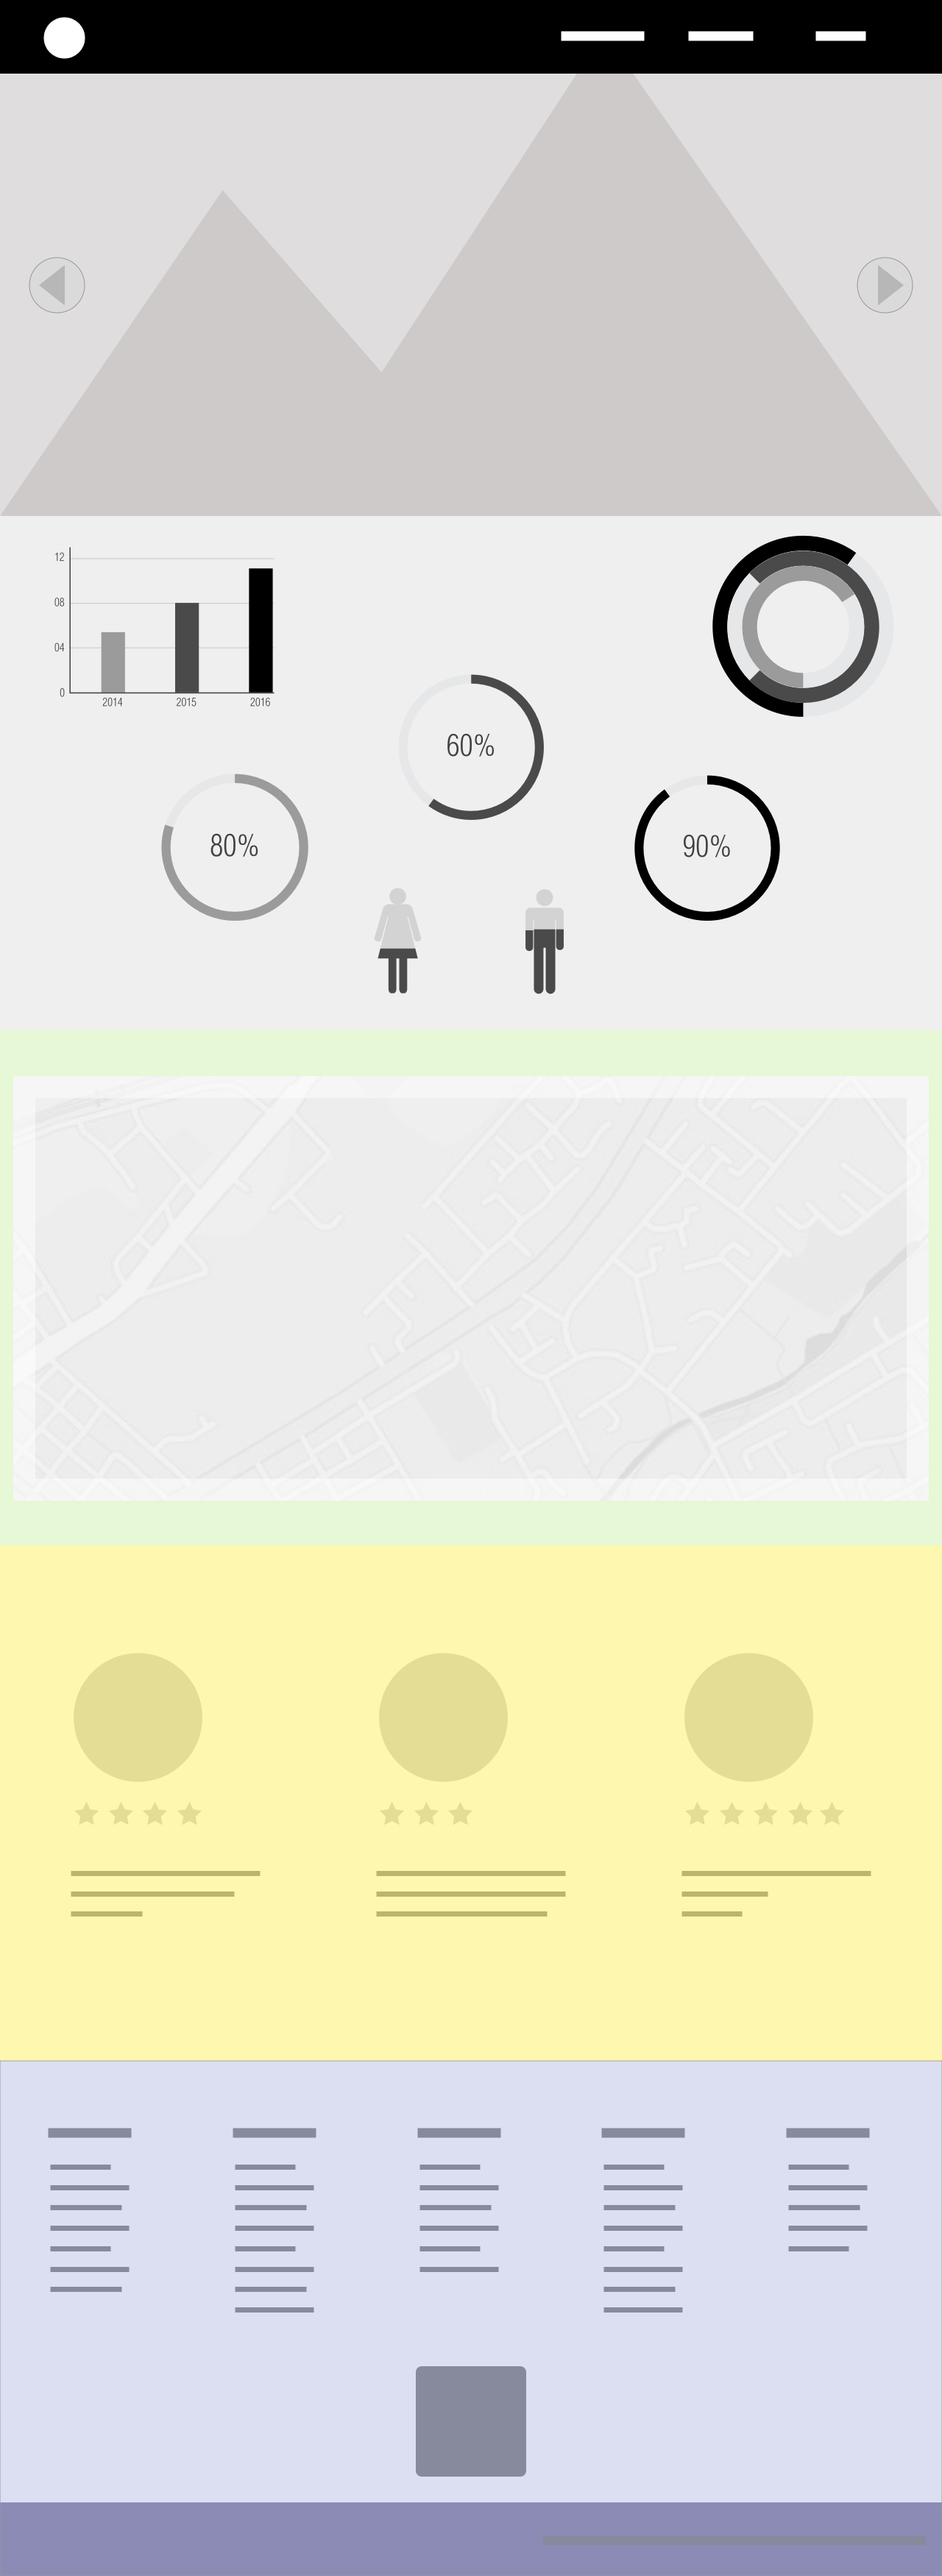
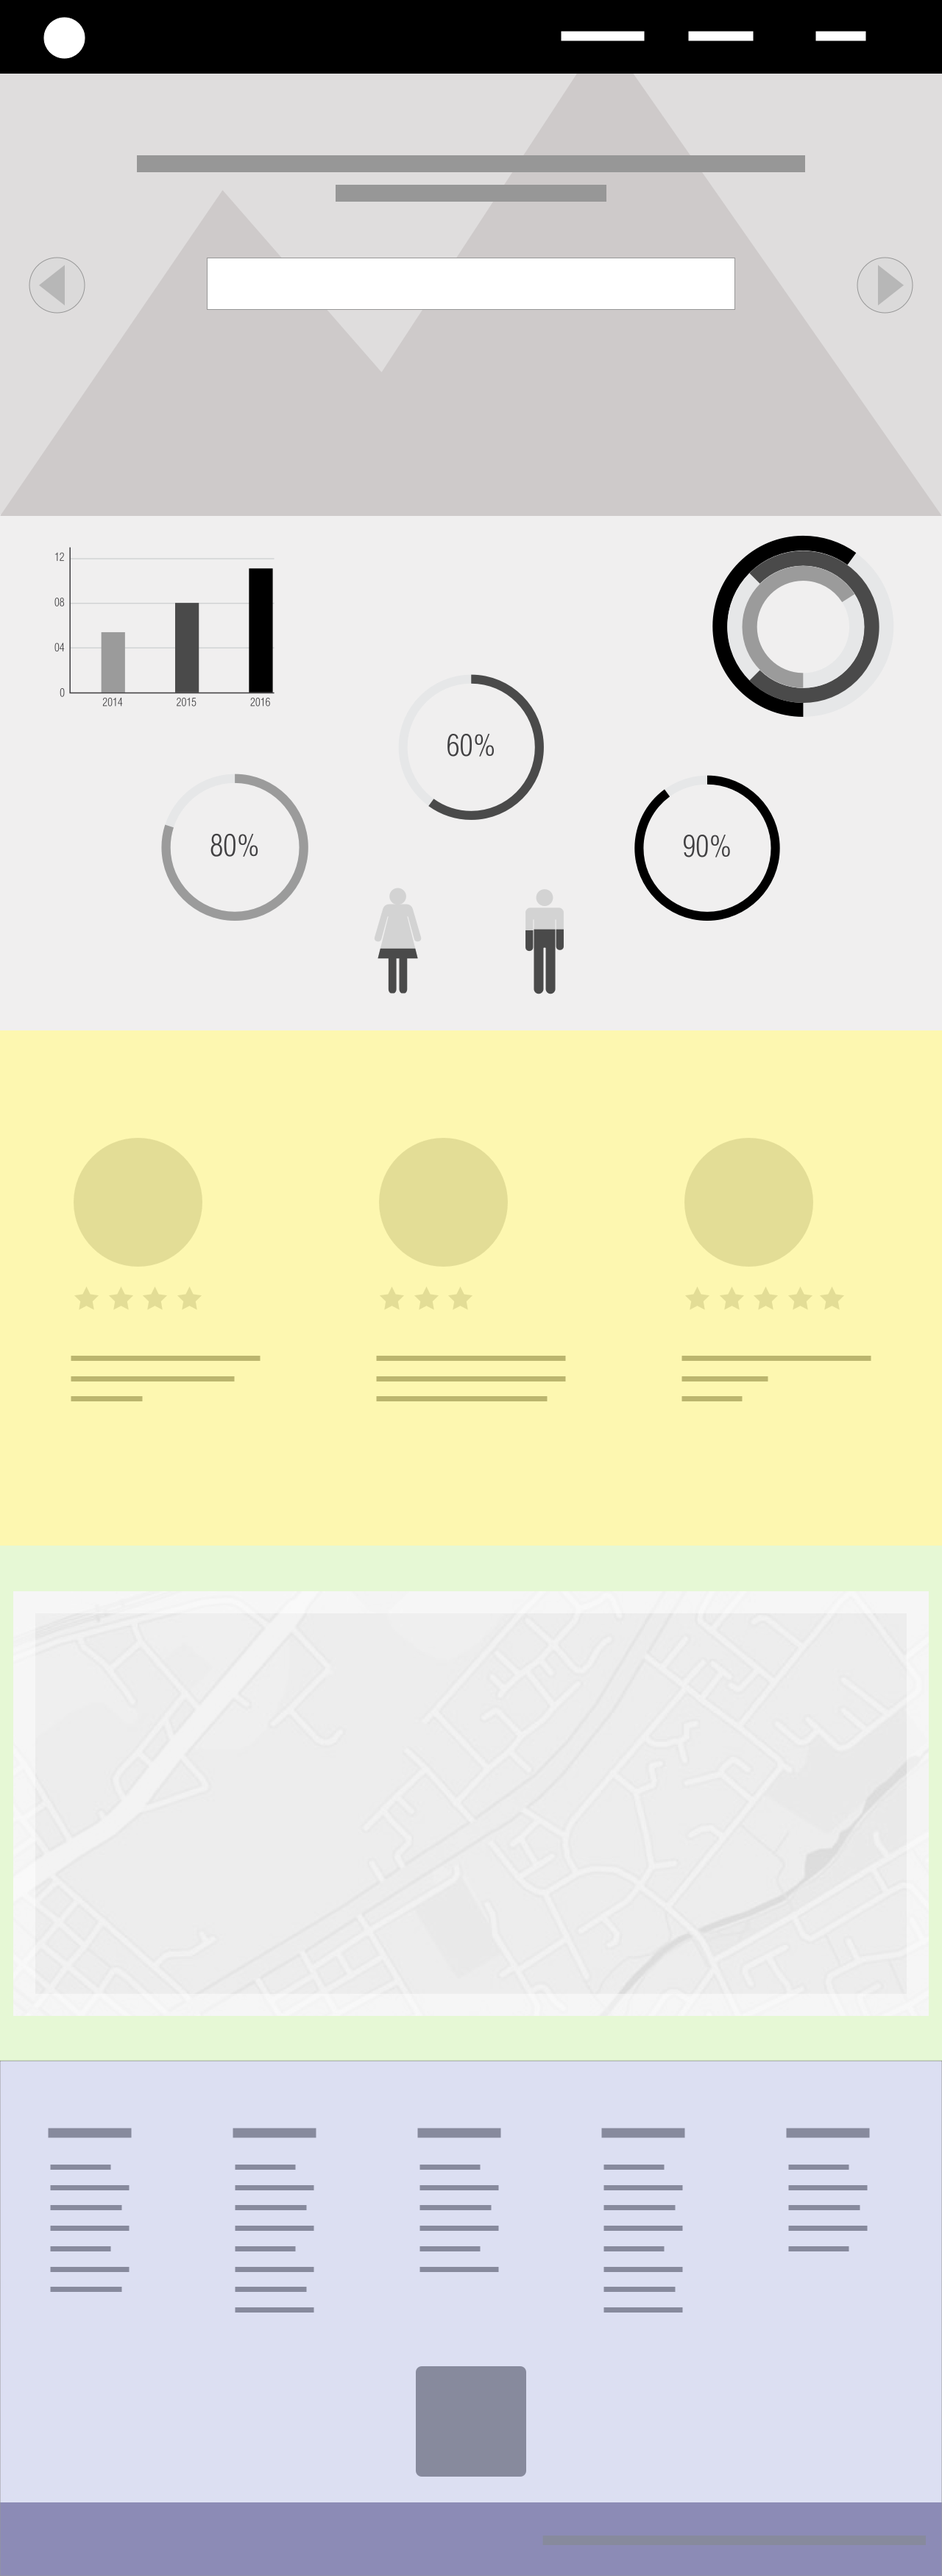
upLoad imgs / modificaciones .css & index.html

diff --git a/index.html b/index.html
@@ -10,34 +10,34 @@
 
 <body>
    <main>
-      <section class="container">
-         <header class="containerTop">
-            <img class="containerLogo" src="imgs/M3D-logoFirstDraft.png" alt="logo M3D" width="100px">
+      <section class="topContainer">
+         <header class="containerUno">
+            <img class="containerLogo" src="imgs/logoFirstDraft.png" alt="logo M3D" width="100px">
             <ul class="menu">
                <li><a href="#">uno</a></li>
                <li><a href="#">dos</a></li>
                <li><a href="#">tres</a></li>
             </ul>
          </header>
-         <div class="containerBottom">
+         <div class="containerDos">
             <div class="motto">
-               <h1>M3D.network, la plataforma ideal para encontrar al médico que necesitás</h1>
+               <h1>Lorem ipsum dolor sit amet, consectetur adipisicing elit. Ut recusandae eaque debitis sint necessitatibus, officia ex.</h1>
             </div>
             <div class="mainSearch">
                Barras de búsqueda
             </div>
-            <img class="banner" src="imgs/M3D-bannerPlaceholder.png" alt="banner">
+            <img class="banner" src="imgs/bannerPlaceholder.png" alt="banner">
          </div>
       </section>
       <section class="infographs">
          <article class="infographOne">
-            <img src="imgs/M3D-infographPlaceholder.png" alt="infograph">
+            <img src="imgs/infographPlaceholder.png" alt="infograph">
          </article>
          <article class="infographTwo">
-            <img src="imgs/M3D-infographPlaceholder.png" alt="infograph">
+            <img src="imgs/infographPlaceholder.png" alt="infograph">
          </article>
          <article class="infographThree">
-            <img src="imgs/M3D-infographPlaceholder.png" alt="infograph">
+            <img src="imgs/infographPlaceholder.png" alt="infograph">
          </article>
       </section>
       <section class="userStories">
@@ -61,6 +61,20 @@
             <p>Lorem ipsum dolor sit amet, consectetur adipisicing elit. Ut recusandae eaque debitis sint necessitatibus, officia ex.</p>
             <p>Lorem ipsum dolor sit amet, consectetur adipisicing elit. Ut recusandae eaque debitis sint necessitatibus, officia ex.</p>
             <p>Lorem ipsum dolor sit amet, consectetur adipisicing elit. Ut recusandae eaque debitis sint necessitatibus, officia ex.</p>
+         </article>
+      </section>
+      <section class="map">
+         <article class="mapOne">
+            <img src="imgs/map.png" alt="mapOne">
+         </article>
+      </section>
+      <section class="bottomContainer">
+         <article class="bottomContainerList">
+            <ul> <li>uno</li> <li>dos</li> <li>tres</li> </ul>
+            <ul> <li>uno</li> <li>dos</li> <li>tres</li> <li>cuatro</li> </ul>
+            <ul> <li>uno</li> <li>dos</li> <li>tres</li> <li>cuatro</li> <li>cinco</li> </ul>
+            <ul> <li>uno</li> <li>dos</li> <li>tres</li> </ul>
+            <ul> <li>uno</li> <li>dos</li> <li>tres</li> <li>cuatro</li> <li>cinco</li> </ul>
          </article>
       </section>
    </main>

diff --git a/styles/styles.js b/styles/styles.js
@@ -27,7 +27,7 @@ export default StyleSheet.create({
         "marginBottom": 0,
         "marginLeft": "auto"
     },
-    "containerTop": {
+    "containerUno": {
         "display": "inline-block",
         "width": 99 * vw,
         "height": 100,
@@ -62,7 +62,7 @@ export default StyleSheet.create({
     "menu li a": {
         "textDecoration": "none"
     },
-    "containerBottom": {
+    "containerDos": {
         "display": "block",
         "width": 99 * vw,
         "borderRadius": "0 25px"
@@ -184,6 +184,35 @@ export default StyleSheet.create({
         "fontSize": 13,
         "fontSizeAdjust": "auto"
     },
+    "map": {
+        "display": "flex",
+        "width": 99 * vw,
+        "height": 600,
+        "marginTop": 0,
+        "marginRight": "auto",
+        "marginBottom": 0,
+        "marginLeft": "auto",
+        "borderRadius": "0 25px",
+        "backgroundColor": "rgb(252, 250, 187)"
+    },
+    "mapOne": {
+        "justifyContent": "center",
+        "alignItems": "center"
+    },
+    "bottomContainer": {
+        "border": "solid 1px blue",
+        "display": "flex",
+        "width": 99 * vw,
+        "height": 300,
+        "borderRadius": "0 25px",
+        "backgroundColor": "rgb(187, 252, 209)"
+    },
+    "bottomContainerList": {
+        "border": "solid 1px blue",
+        "flexDirection": "column",
+        "flexWrap": "wrap",
+        "justifyContent": "space-between"
+    },
     "footer": {
         "width": 99 * vw,
         "height": 100,
@@ -191,8 +220,8 @@ export default StyleSheet.create({
         "marginRight": "auto",
         "marginBottom": 0,
         "marginLeft": "auto",
-        "borderRadius": "25px 25px 0 0",
         "color": "white",
+        "borderRadius": "25px 25px 0 0",
         "backgroundColor": "rgb(31, 41, 133)",
         "textAlign": "center"
     }

diff --git a/styles/styles.css b/styles/styles.css
@@ -17,7 +17,7 @@ main {
   margin   : 0 auto;
 }
 
-.containerTop {
+.containerUno {
   display          : inline-block;
   width            : 99vw;
   height           : 100px;
@@ -51,7 +51,7 @@ main {
   text-decoration : none;
 }
 
-.containerBottom {
+.containerDos {
   display       : block;
   width         : 99vw;
   border-radius : 0 25px;
@@ -179,14 +179,48 @@ main {
 
 /* ------------------------------------------------------ */
 
+.map {
+  display          : flex;
+  width            : 99vw;
+  height           : 600px;
+  margin           : 0 auto;
+  border-radius    : 0 25px;
+  background-color : rgb(252, 250, 187);
+}
+
+.mapOne {
+   justify-content: center;
+   align-items: center;
+}
+
+/* ------------------------------------------------------ */
+
+.bottomContainer {
+   border: solid 1px blue;
+  display          : flex;
+  width            : 99vw;
+  height           : 300px;
+  border-radius    : 0 25px;
+  background-color : rgb(187, 252, 209);
+}
+
+.bottomContainerList {
+border: solid 1px blue;
+flex-direction: column;
+flex-wrap: wrap;
+justify-content: space-between;
+}
+
+/* ------------------------------------------------------ */
+
 .footer {
   width            : 99vw;
   height           : 100px;
   margin           : 0 auto;
-  border-radius    : 25px 25px 0 0;
   color            : white;
+  border-radius    : 25px 25px 0 0;
   background-color : rgb(31, 41, 133);
-  text-align: center;
+  text-align       : center;
 }
 
 /* --- MOBILE ------------------------------------------- */
